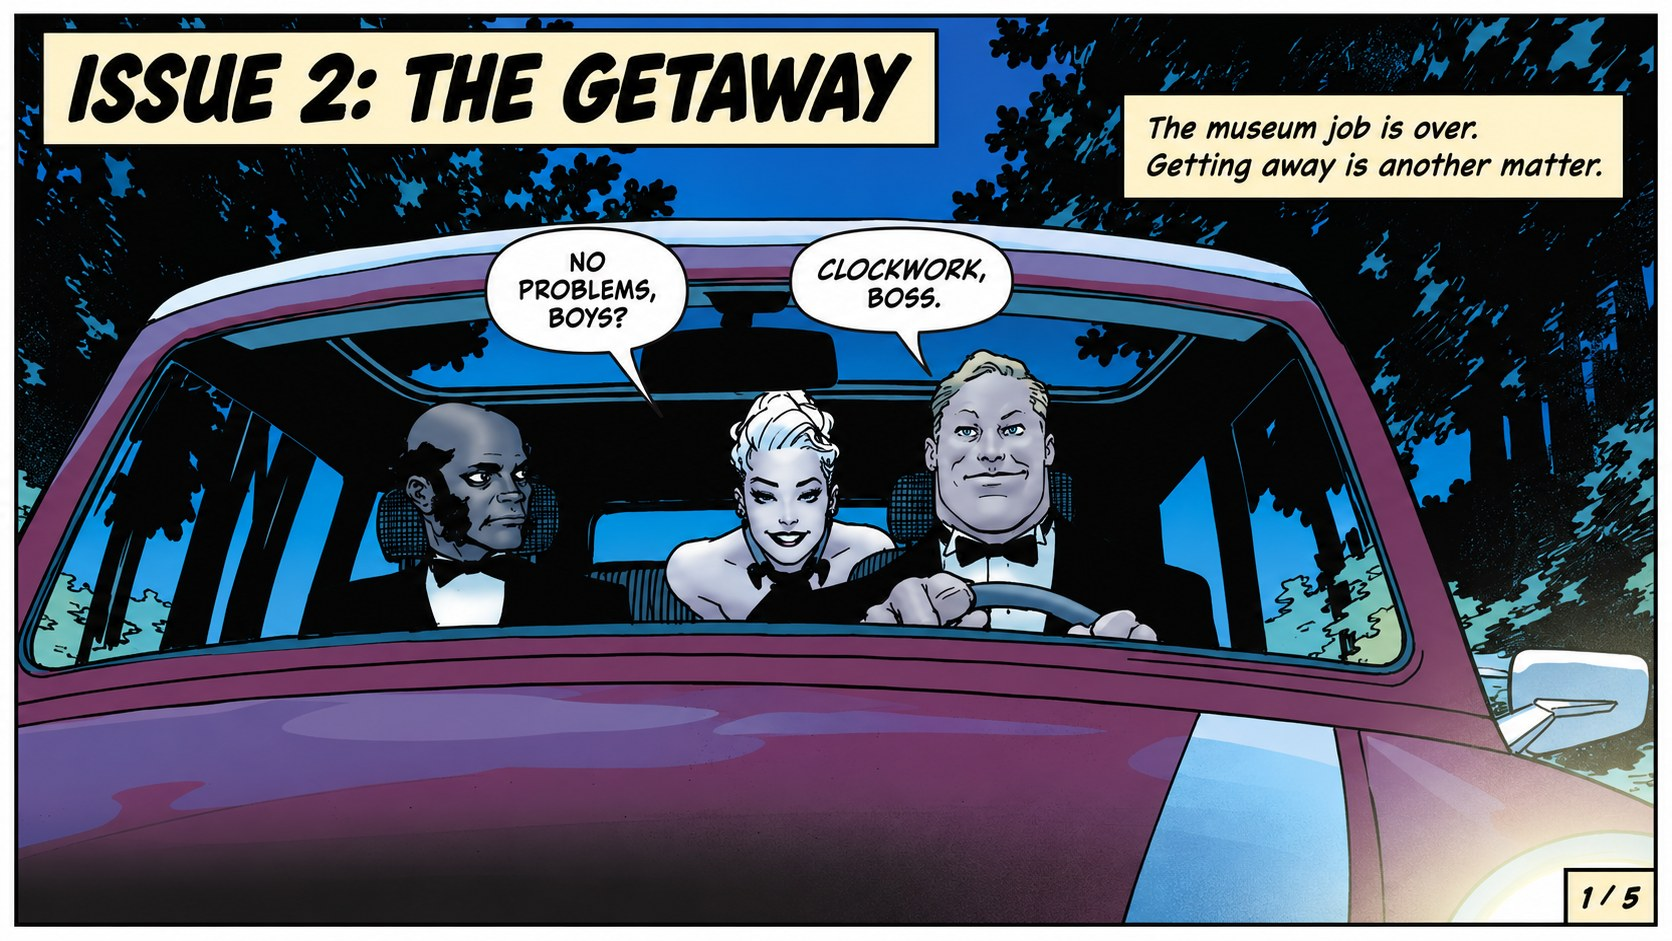
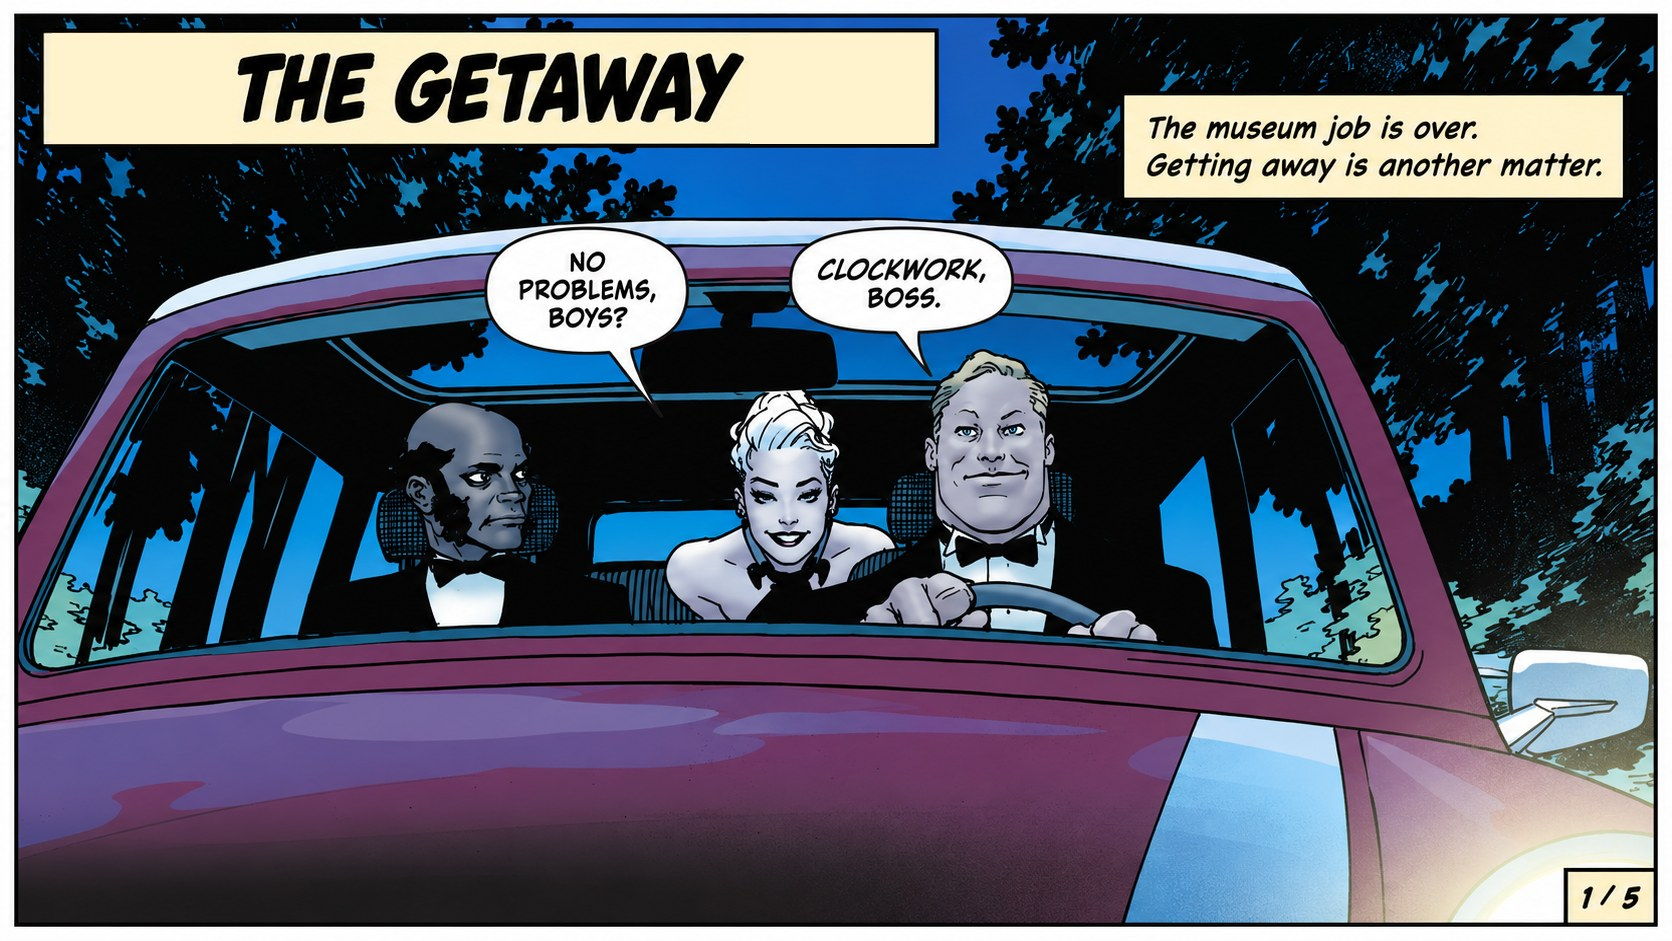
Content: Protection Racket opener pages; drop "Issue N:" from the Fear No Evil comic title boxes
The underling issues play in any order, so the title boxes on The Getaway and
Protection Racket page 1 keep only the title, recentered. Protection Racket's
last beat pulls back to the whole page so its Suit up! strip isn't cropped.

Changed region(s): [[0.0311, 0.0308, 0.5598, 0.1541]]

diff --git a/packages/client/src/campaign/stories/fne.ts b/packages/client/src/campaign/stories/fne.ts
@@ -2,8 +2,9 @@
  * Fear No Evil (MC60): the copy for the box. Everything here is original flavor for this app; no rule lives here (see
  * `../story.ts`).
  *
- * **Comic pages.** Art Museum Heist and The Getaway each open on five lettered pages the owner built from panels of
- * Black Cat (2019) #1 (2026-10-20), in `art/campaigns/fne/pages/<issue>-<n>.jpg` (1672x941 each), read panel by panel
+ * **Comic pages.** Art Museum Heist, The Getaway and Protection Racket each open on five lettered pages the owner put
+ * together (2026-10-20; the first two from panels of Black Cat (2019) #1), with each title box's "Issue N:" removed
+ * (the owner: the underling issues play in any order), in `art/campaigns/fne/pages/<issue>-<n>.jpg` (1672x941 each), read panel by panel
  * with the reader's lettered mode (the captions and balloons are printed in). Panel rectangles were measured from each
  * page's white gutters. The other issues have no pages yet, so the reader skips them (no `comicBeats`). The five
  * underling issues are dealt from the box in no fixed order (a `choice` graph), so they carry no number in the copy;
@@ -81,6 +82,28 @@ const PAGES: readonly ComicPage[] = [
     { x: 1068, y: 62, w: 588, h: 798 },
   ]),
   page("getaway-5", [{ x: 26, y: 63, w: 1620, h: 814 }]),
+  page("protection-racket-1", [
+    { x: 31, y: 26, w: 660, h: 896 },
+    { x: 701, y: 98, w: 942, h: 824 },
+  ]),
+  page("protection-racket-2", [
+    { x: 33, y: 25, w: 1606, h: 573 },
+    { x: 33, y: 607, w: 1606, h: 311 },
+  ]),
+  page("protection-racket-3", [
+    { x: 18, y: 66, w: 1088, h: 818 },
+    { x: 1121, y: 66, w: 533, h: 818 },
+  ]),
+  page("protection-racket-4", [
+    { x: 33, y: 103, w: 885, h: 764 },
+    { x: 933, y: 103, w: 707, h: 764 },
+  ]),
+  page("protection-racket-5", [
+    { x: 30, y: 25, w: 991, h: 778 },
+    { x: 1040, y: 25, w: 604, h: 778 },
+    // The page pulled back to show its "Suit up!" strip with the panels above it (a strip alone would crop to a sliver).
+    { x: 30, y: 25, w: 1614, h: 895 },
+  ]),
 ];
 
 /** Every beat of each page, in order. */
@@ -240,7 +263,14 @@ export const FNE_STORY: CampaignStory = {
       },
       "You will never catch me. Try again, if you like losing.",
     ),
-    issue(
+    withComic(
+      beatsOf(
+        "protection-racket-1",
+        "protection-racket-2",
+        "protection-racket-3",
+        "protection-racket-4",
+        "protection-racket-5",
+      ),
       "protection-racket",
       "Protection Racket",
       "An underling",

diff --git a/packages/client/src/campaign/fne-story.test.ts b/packages/client/src/campaign/fne-story.test.ts
@@ -26,7 +26,7 @@ describe("the Fear No Evil story", () => {
     }
   });
 
-  test("Art Museum Heist and The Getaway open on their five lettered pages, every panel in order; the others have none yet", () => {
+  test("Art Museum Heist, The Getaway and Protection Racket open on their lettered pages; the others have none yet", () => {
     const heist = FNE_STORY.issues.find((issue) => issue.nodeId === "art-museum-heist")!;
     expect(heist.comicBeats?.map((beat) => beat.page)).toEqual([
       "art-heist-1",
@@ -52,7 +52,11 @@ describe("the Fear No Evil story", () => {
       new Set(["getaway-1", "getaway-2", "getaway-3", "getaway-4", "getaway-5"]),
     );
     expect(getaway.comicBeats).toHaveLength(7);
-    for (const issue of FNE_STORY.issues.filter((i) => !["art-museum-heist", "the-getaway"].includes(i.nodeId))) {
+    const racket = FNE_STORY.issues.find((issue) => issue.nodeId === "protection-racket")!;
+    expect(racket.comicBeats).toHaveLength(11);
+    expect(racket.comicBeats?.at(-1)).toEqual({ page: "protection-racket-5", beatIndex: 2 });
+    const withPages = ["art-museum-heist", "the-getaway", "protection-racket"];
+    for (const issue of FNE_STORY.issues.filter((i) => !withPages.includes(i.nodeId))) {
       expect(issue.comicBeats, issue.nodeId).toBeUndefined();
     }
   });

diff --git a/packages/client/src/content/credits.ts b/packages/client/src/content/credits.ts
@@ -226,13 +226,14 @@ export const CREDITS: readonly CreditEntry[] = [
   {
     id: "fne-art-heist",
     group: "story",
-    title: "Fear No Evil: Art Museum Heist and The Getaway pages",
-    shownIn: "The Art Museum Heist and The Getaway issue openers in the Fear No Evil campaign",
+    title: "Fear No Evil: issue opener pages",
+    shownIn: "The Art Museum Heist, The Getaway and Protection Racket openers in the Fear No Evil campaign",
     // The owner, 2026-10-20.
     credit:
-      "Ten comic pages, five each for the Art Museum Heist and The Getaway, built from panels of Black Cat (2019) #1 (Marvel Comics). Written by Jed MacKay; art by Travel Foreman, Mike Dowling and Nao Fuji; cover by J. Scott Campbell.",
+      "Comic pages the owner put together for the issue openers. Art Museum Heist and The Getaway: built from panels of Black Cat (2019) #1 (Marvel Comics), written by Jed MacKay, art by Travel Foreman, Mike Dowling and Nao Fuji, cover by J. Scott Campbell. Protection Racket: the source comic is not recorded yet.",
     notice: MARVEL,
     folders: ["art/campaigns/fne/pages"],
+    gap: true,
   },
   {
     id: "shadowland-comic",
